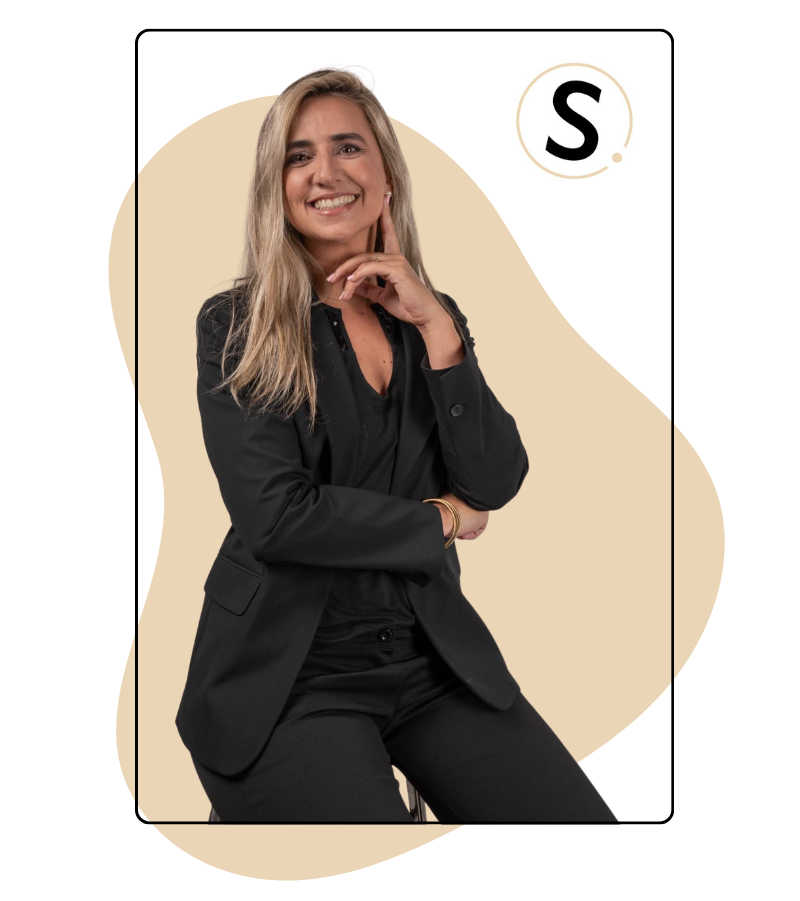
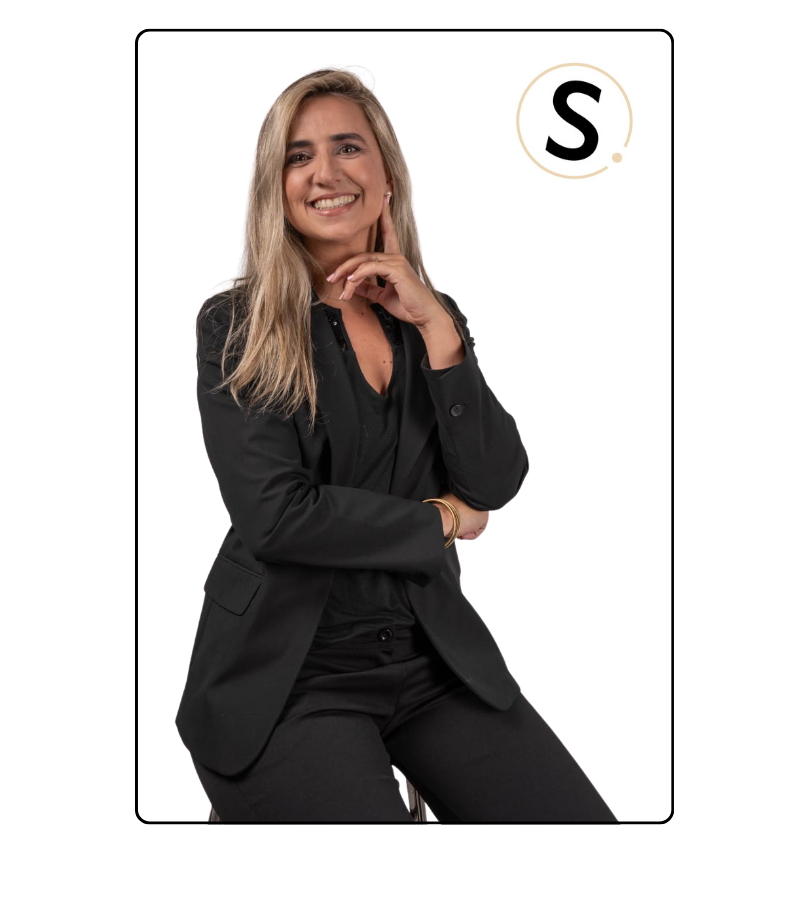
commit cmabios

Changed region(s): [[0.4688, 0.1243, 0.9062, 0.8391], [0.125, 0.0932, 0.5625, 0.9945], [0.4688, 0.8391, 0.5, 0.8701]]

diff --git a/index.html b/index.html
@@ -209,7 +209,7 @@
 							<div class="single-faq">
 								<button class="w-100 text-start collapsed" type="button" data-bs-toggle="collapse"
 									data-bs-target="#collapseThree" aria-expanded="false" aria-controls="collapseThree">
-									Gestoría Administrativa BSE
+									Gestoría Administrativa BPS
 								</button>
 								<div id="collapseThree" class="collapse" aria-labelledby="headingThree"
 									data-bs-parent="#accordionExample">
